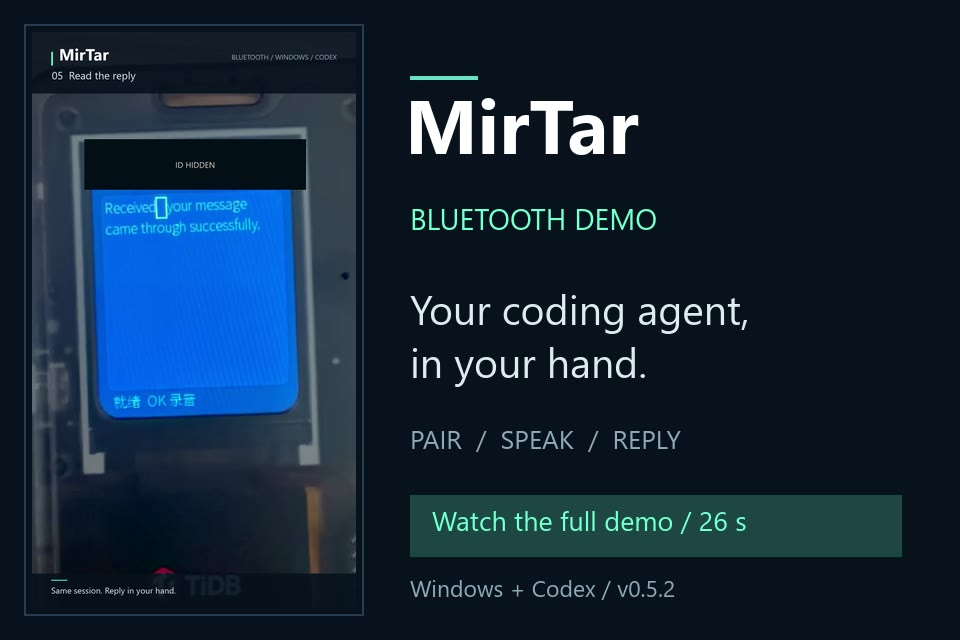
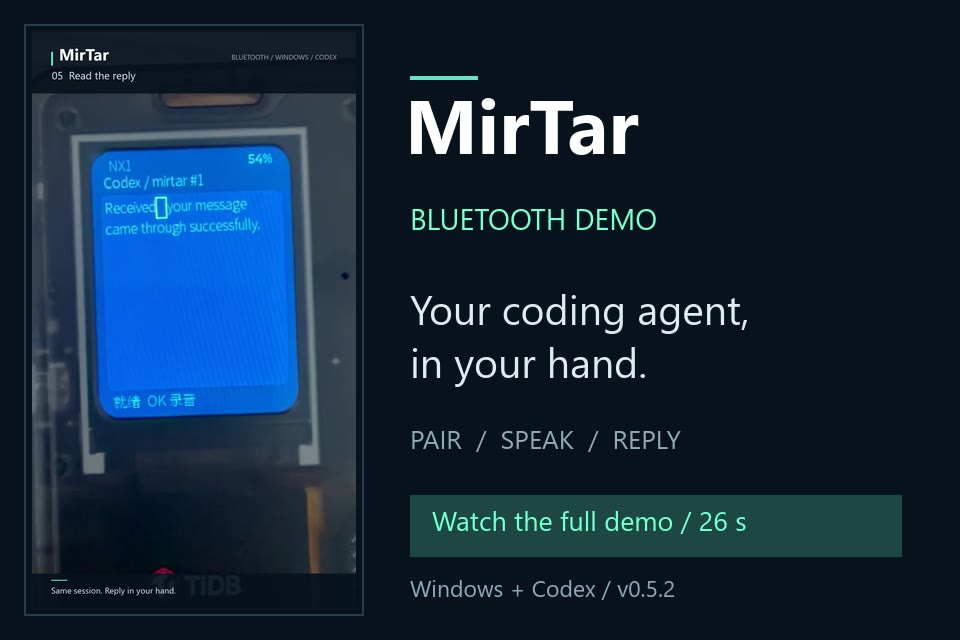
docs: remove demo masks and show the full badge interface

Changed region(s): [[0.0625, 0.2188, 0.3438, 0.3125]]

diff --git a/docs/demos/bluetooth-v0.5.2.md b/docs/demos/bluetooth-v0.5.2.md
@@ -2,7 +2,7 @@
 
 26 October 2026 · MirTar v0.5.2
 
-[![Watch the Bluetooth demo](../images/mirtar-bluetooth-demo.jpg)](https://github.com/Charlesmpc/MirTar/releases/download/v0.5.2/MirTar-bluetooth-demo-v0.5.2.mp4)
+[![Watch the Bluetooth demo](../images/mirtar-bluetooth-demo.jpg?rev=2)](https://github.com/Charlesmpc/MirTar/releases/download/v0.5.2/MirTar-bluetooth-demo-v0.5.2.mp4)
 
 - [Watch / download the full video with music](https://github.com/Charlesmpc/MirTar/releases/download/v0.5.2/MirTar-bluetooth-demo-v0.5.2.mp4)
 - [Without background music](https://github.com/Charlesmpc/MirTar/releases/download/v0.5.2/MirTar-bluetooth-demo-v0.5.2-no-music.mp4)
@@ -12,10 +12,10 @@ Real owner-provided badge footage shows selecting a saved computer, choosing Blu
 
 The 60.1-second source was edited to approximately 26.1 seconds, with upright orientation baked into the pixels, two-pass stabilization, gentle framing changes, and an original locally synthesized 112 BPM electronic beat. Speech remains at normal speed; the music ducks under it. Pairing wait is marked **×5**, processing wait **×8**. The README animation is a further **×4 preview**, not a latency measurement.
 
-Personal host labels, the personal build label and the pairing code are covered with opaque masks following the LCD on every frame. Earlier conversation content is removed from the edit. Original recordings, unredacted frames, local editing scripts and personal firmware are not published. Editing and audio processing were local; no recording was sent to an external transcription service.
+The badge menus and pairing prompt remain unobstructed. Earlier conversation content is removed from the edit. Original recordings, local editing scripts and personal firmware are not published. Editing and audio processing were local; no recording was sent to an external transcription service.
 
 Video: 1080 × 1920, 30 fps, H.264/AAC MP4, fast-start playback, source metadata removed. The music and no-music editions contain the same edited video. Existing v0.5.2 firmware and source release assets are unchanged.
 
 这段实机录像展示了选择电脑、蓝牙配对、连接 Codex、按 OK 录音、再次按 OK 发送及卡片回显回复；Windows 侧输入配对码没有入镜。配对等待与处理等待分别标注 5 倍、8 倍加速，语音部分保持原速，背景音乐在人声时自动减弱。首页动图另以 4 倍速播放，仅供预览，不代表实际响应速度。
 
-公开版本遮挡个人主机名、个人版标识与配对码，并删除旧聊天内容。原始素材和个人固件保留在本地。该短片可以说明本次蓝牙连接和短语音回显流程；真实卡片连续录音十分钟、电量和长期稳定性仍需单独验证。
+卡片菜单和配对提示完整显示，旧聊天内容不在剪辑中。原始素材和个人固件保留在本地。该短片可以说明本次蓝牙连接和短语音回显流程；真实卡片连续录音十分钟、电量和长期稳定性仍需单独验证。

diff --git a/README.md b/README.md
@@ -4,11 +4,11 @@
 
 [简体中文](README.zh-CN.md) · [Releases](https://github.com/Charlesmpc/MirTar/releases) · [Setup](docs/server-onboarding.md)
 
-<p align="center"><a href="https://github.com/Charlesmpc/MirTar/releases/download/v0.5.2/MirTar-bluetooth-demo-v0.5.2.mp4"><img src="docs/images/mirtar-bluetooth-demo.gif" width="680" alt="Real MirTar Bluetooth demo: choose a computer, pair, speak and receive a reply"></a></p>
+<p align="center"><a href="https://github.com/Charlesmpc/MirTar/releases/download/v0.5.2/MirTar-bluetooth-demo-v0.5.2.mp4"><img src="docs/images/mirtar-bluetooth-demo.gif?rev=2" width="680" alt="Real MirTar Bluetooth demo: choose a computer, pair, speak and receive a reply"></a></p>
 
 <p align="center"><a href="https://github.com/Charlesmpc/MirTar/releases/download/v0.5.2/MirTar-bluetooth-demo-v0.5.2.mp4">Watch the Bluetooth demo (26 seconds)</a> · <a href="https://github.com/Charlesmpc/MirTar/releases/download/v0.5.2/MirTar-bluetooth-demo-v0.5.2-no-music.mp4">Without background music</a> · <a href="docs/demos/bluetooth-v0.5.2.md">Demo details</a></p>
 
-*Real badge footage. Preview plays at 4×; the full video labels shortened pairing and processing waits. Personal labels and the pairing code are hidden.*
+*Real badge footage. Preview plays at 4×; the full video labels shortened pairing and processing waits.*
 
 <details>
 <summary>Concept illustration</summary>

diff --git a/README.zh-CN.md b/README.zh-CN.md
@@ -4,11 +4,11 @@
 
 [English](README.md) · [版本下载](https://github.com/Charlesmpc/MirTar/releases) · [使用说明](docs/server-onboarding.zh_CN.md)
 
-<p align="center"><a href="https://github.com/Charlesmpc/MirTar/releases/download/v0.5.2/MirTar-bluetooth-demo-v0.5.2.mp4"><img src="docs/images/mirtar-bluetooth-demo.gif" width="680" alt="MirTar 蓝牙实机演示：选择电脑、配对、说话、查看回复"></a></p>
+<p align="center"><a href="https://github.com/Charlesmpc/MirTar/releases/download/v0.5.2/MirTar-bluetooth-demo-v0.5.2.mp4"><img src="docs/images/mirtar-bluetooth-demo.gif?rev=2" width="680" alt="MirTar 蓝牙实机演示：选择电脑、配对、说话、查看回复"></a></p>
 
 <p align="center"><a href="https://github.com/Charlesmpc/MirTar/releases/download/v0.5.2/MirTar-bluetooth-demo-v0.5.2.mp4">观看蓝牙 Demo（26 秒）</a> · <a href="https://github.com/Charlesmpc/MirTar/releases/download/v0.5.2/MirTar-bluetooth-demo-v0.5.2-no-music.mp4">无配乐版</a> · <a href="docs/demos/bluetooth-v0.5.2.md">演示说明</a></p>
 
-*真实卡片录像。动图为 4 倍速预览；完整视频分别标注缩短的配对与处理等待。个人标识和配对码已遮挡。*
+*真实卡片录像。动图为 4 倍速预览；完整视频分别标注缩短的配对与处理等待。*
 
 <details>
 <summary>概念示意图</summary>
